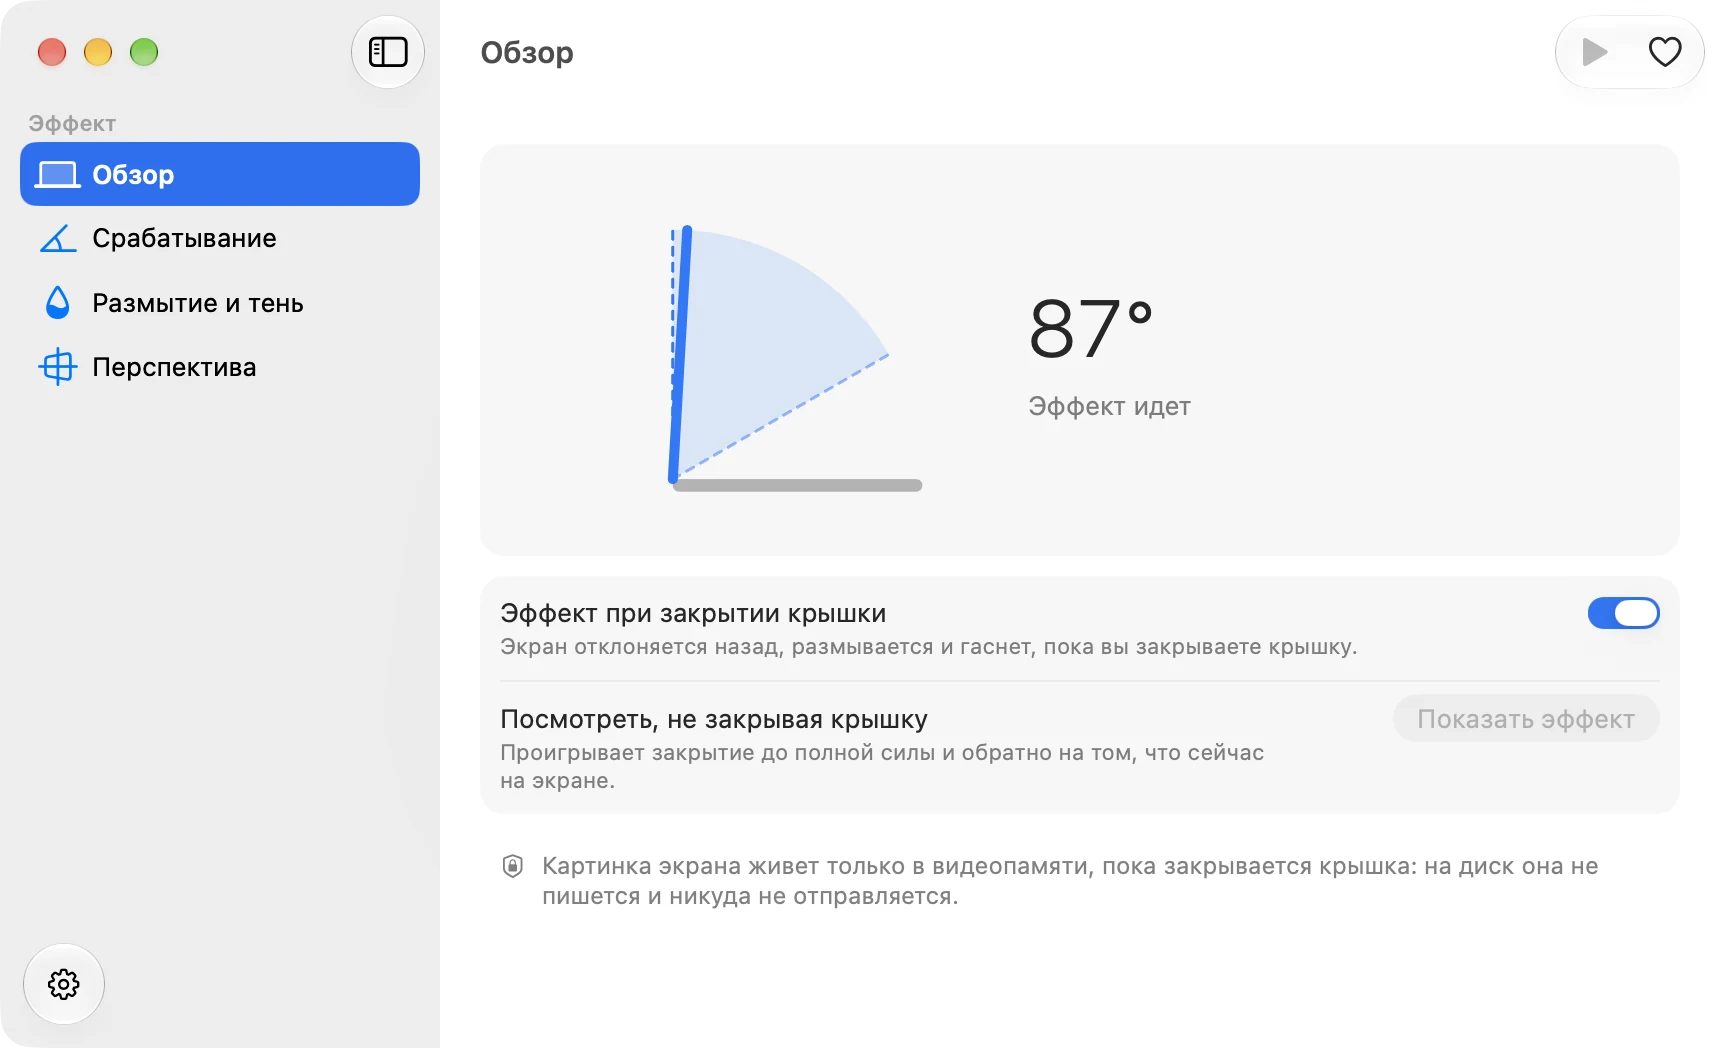
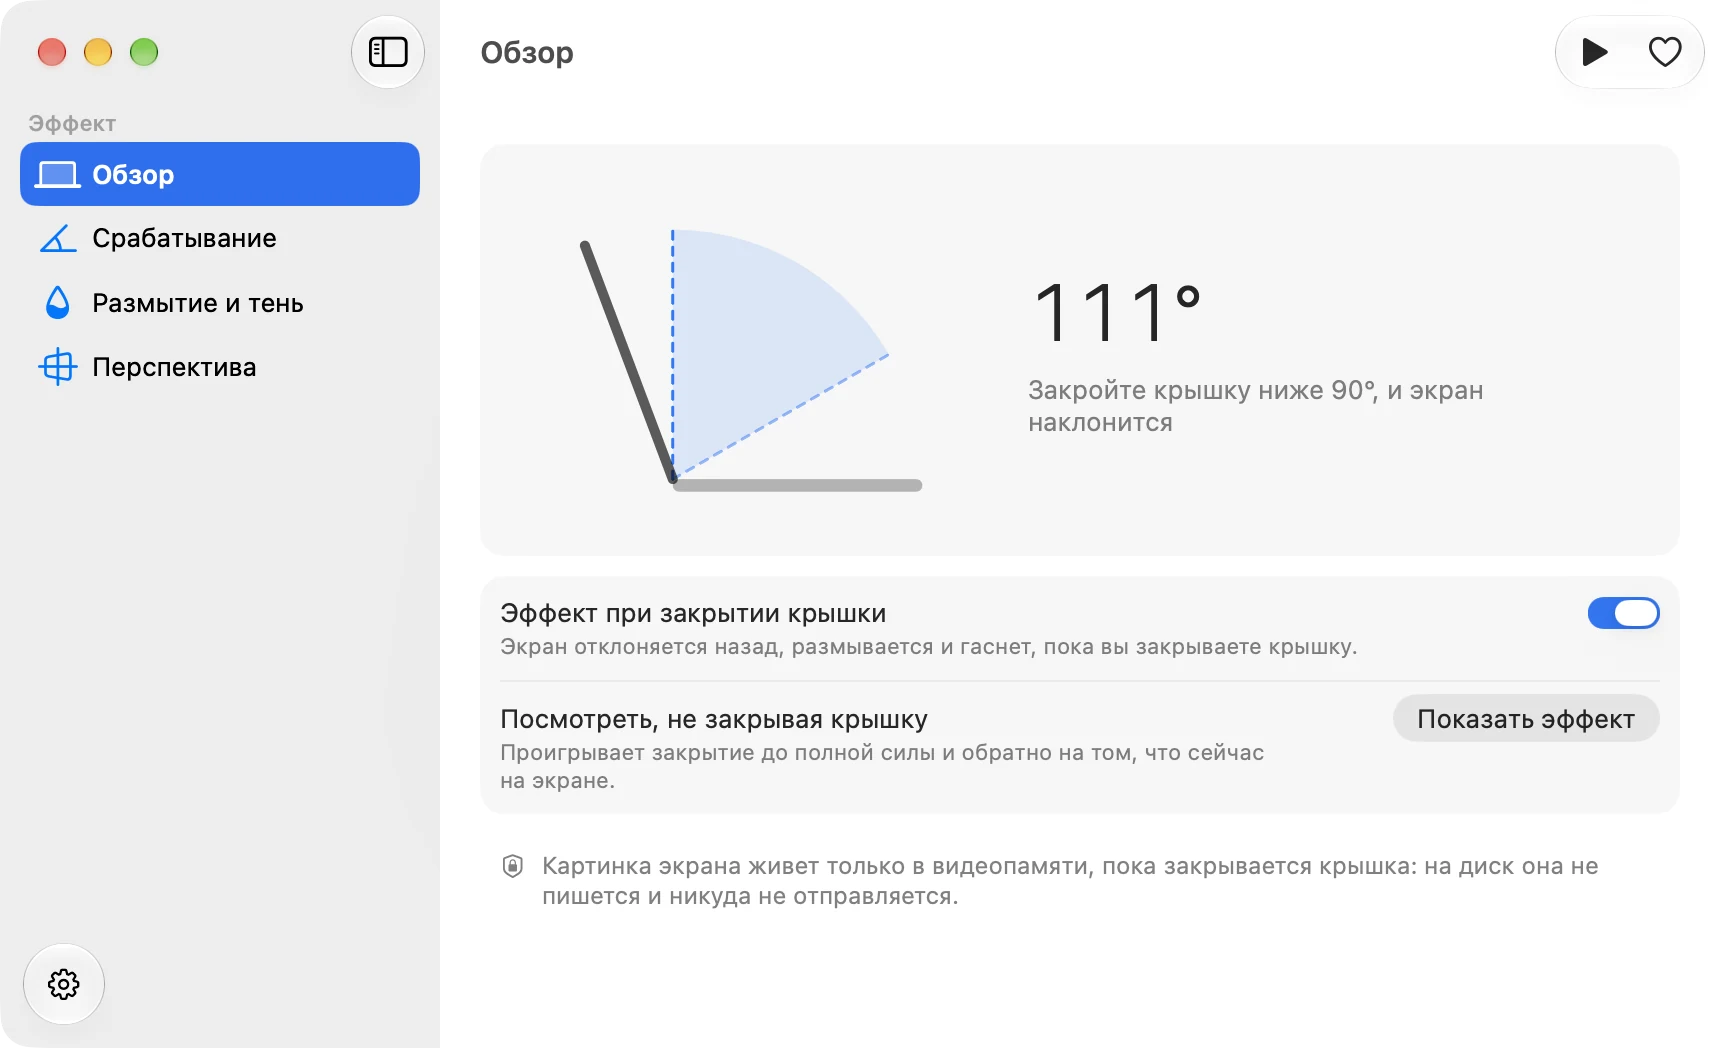
Сайт: 1.0.3, новые снимки

diff --git a/index.html b/index.html
@@ -40,7 +40,7 @@
     <p class="meta">Для MacBook с Apple Silicon и macOS 26 или новее</p>
     <div class="badges"><span class="badge"><svg viewBox="0 0 24 24" fill="none" stroke="currentColor" stroke-width="2" stroke-linecap="round" stroke-linejoin="round"><path d="M3 3l18 18M8.5 16.5a5 5 0 0 1 7 0M5 12.9a10 10 0 0 1 4.2-2.6M19 12.9a10 10 0 0 0-2.8-2M1.8 9.4a15 15 0 0 1 3.9-2.5M22.2 9.4A15 15 0 0 0 11 5.1M12 20h.01"/></svg>Без интернета</span><span class="badge"><svg viewBox="0 0 24 24" fill="none" stroke="currentColor" stroke-width="2" stroke-linecap="round" stroke-linejoin="round"><circle cx="12" cy="8" r="4"/><path d="M4 21a8 8 0 0 1 16 0"/></svg>Без регистрации</span><span class="badge"><svg viewBox="0 0 24 24" fill="none" stroke="currentColor" stroke-width="2" stroke-linecap="round" stroke-linejoin="round"><rect x="3" y="8" width="18" height="4" rx="1"/><path d="M12 8v13M19 12v7a2 2 0 0 1-2 2H7a2 2 0 0 1-2-2v-7M7.5 8a2.5 2.5 0 0 1 0-5C11 3 12 8 12 8s1-5 4.5-5a2.5 2.5 0 0 1 0 5"/></svg>Бесплатно</span></div>
   </div>
-  <picture><source media="(prefers-color-scheme: dark)" srcset="img/overview-ru-dark-1280.webp?v=fa3179f18c 1280w, img/overview-ru-dark-2x.webp?v=a9b8a2751f 1720w" sizes="(max-width: 1000px) 100vw, 960px"><img class="shot" src="img/overview-ru-1280.webp?v=9fecfb5866" srcset="img/overview-ru-1280.webp?v=9fecfb5866 1280w, img/overview-ru-2x.webp?v=a9445f4033 1720w" sizes="(max-width: 1000px) 100vw, 960px" width="1720" height="1048" alt="Окно Наклона: схема крышки с текущим углом и зоной эффекта" fetchpriority="high"></picture>
+  <picture><source media="(prefers-color-scheme: dark)" srcset="img/overview-ru-dark-1280.webp?v=a68e6b2c37 1280w, img/overview-ru-dark-2x.webp?v=27f5db59b7 1720w" sizes="(max-width: 1000px) 100vw, 960px"><img class="shot" src="img/overview-ru-1280.webp?v=c4a622347b" srcset="img/overview-ru-1280.webp?v=c4a622347b 1280w, img/overview-ru-2x.webp?v=cc72cac741 1720w" sizes="(max-width: 1000px) 100vw, 960px" width="1720" height="1048" alt="Окно Наклона: схема крышки с текущим углом и зоной эффекта" fetchpriority="high"></picture>
 </header>
 
 <section id="features">

diff --git a/en/index.html b/en/index.html
@@ -40,7 +40,7 @@
     <p class="meta">For MacBooks with Apple Silicon running macOS 26 or later</p>
     <div class="badges"><span class="badge"><svg viewBox="0 0 24 24" fill="none" stroke="currentColor" stroke-width="2" stroke-linecap="round" stroke-linejoin="round"><path d="M3 3l18 18M8.5 16.5a5 5 0 0 1 7 0M5 12.9a10 10 0 0 1 4.2-2.6M19 12.9a10 10 0 0 0-2.8-2M1.8 9.4a15 15 0 0 1 3.9-2.5M22.2 9.4A15 15 0 0 0 11 5.1M12 20h.01"/></svg>Works offline</span><span class="badge"><svg viewBox="0 0 24 24" fill="none" stroke="currentColor" stroke-width="2" stroke-linecap="round" stroke-linejoin="round"><circle cx="12" cy="8" r="4"/><path d="M4 21a8 8 0 0 1 16 0"/></svg>No sign-up</span><span class="badge"><svg viewBox="0 0 24 24" fill="none" stroke="currentColor" stroke-width="2" stroke-linecap="round" stroke-linejoin="round"><rect x="3" y="8" width="18" height="4" rx="1"/><path d="M12 8v13M19 12v7a2 2 0 0 1-2 2H7a2 2 0 0 1-2-2v-7M7.5 8a2.5 2.5 0 0 1 0-5C11 3 12 8 12 8s1-5 4.5-5a2.5 2.5 0 0 1 0 5"/></svg>Free</span></div>
   </div>
-  <picture><source media="(prefers-color-scheme: dark)" srcset="../img/overview-en-dark-1280.webp?v=02ff84cf8a 1280w, ../img/overview-en-dark-2x.webp?v=46d436d961 1720w" sizes="(max-width: 1000px) 100vw, 960px"><img class="shot" src="../img/overview-en-1280.webp?v=7dae6f5f55" srcset="../img/overview-en-1280.webp?v=7dae6f5f55 1280w, ../img/overview-en-2x.webp?v=a622c68efe 1720w" sizes="(max-width: 1000px) 100vw, 960px" width="1720" height="1048" alt="The Naklon window: a lid diagram with the current angle and the effect zone" fetchpriority="high"></picture>
+  <picture><source media="(prefers-color-scheme: dark)" srcset="../img/overview-en-dark-1280.webp?v=51ab40ac0a 1280w, ../img/overview-en-dark-2x.webp?v=a571cee043 1720w" sizes="(max-width: 1000px) 100vw, 960px"><img class="shot" src="../img/overview-en-1280.webp?v=4e10396a6b" srcset="../img/overview-en-1280.webp?v=4e10396a6b 1280w, ../img/overview-en-2x.webp?v=056ac94f14 1720w" sizes="(max-width: 1000px) 100vw, 960px" width="1720" height="1048" alt="The Naklon window: a lid diagram with the current angle and the effect zone" fetchpriority="high"></picture>
 </header>
 
 <section id="features">
